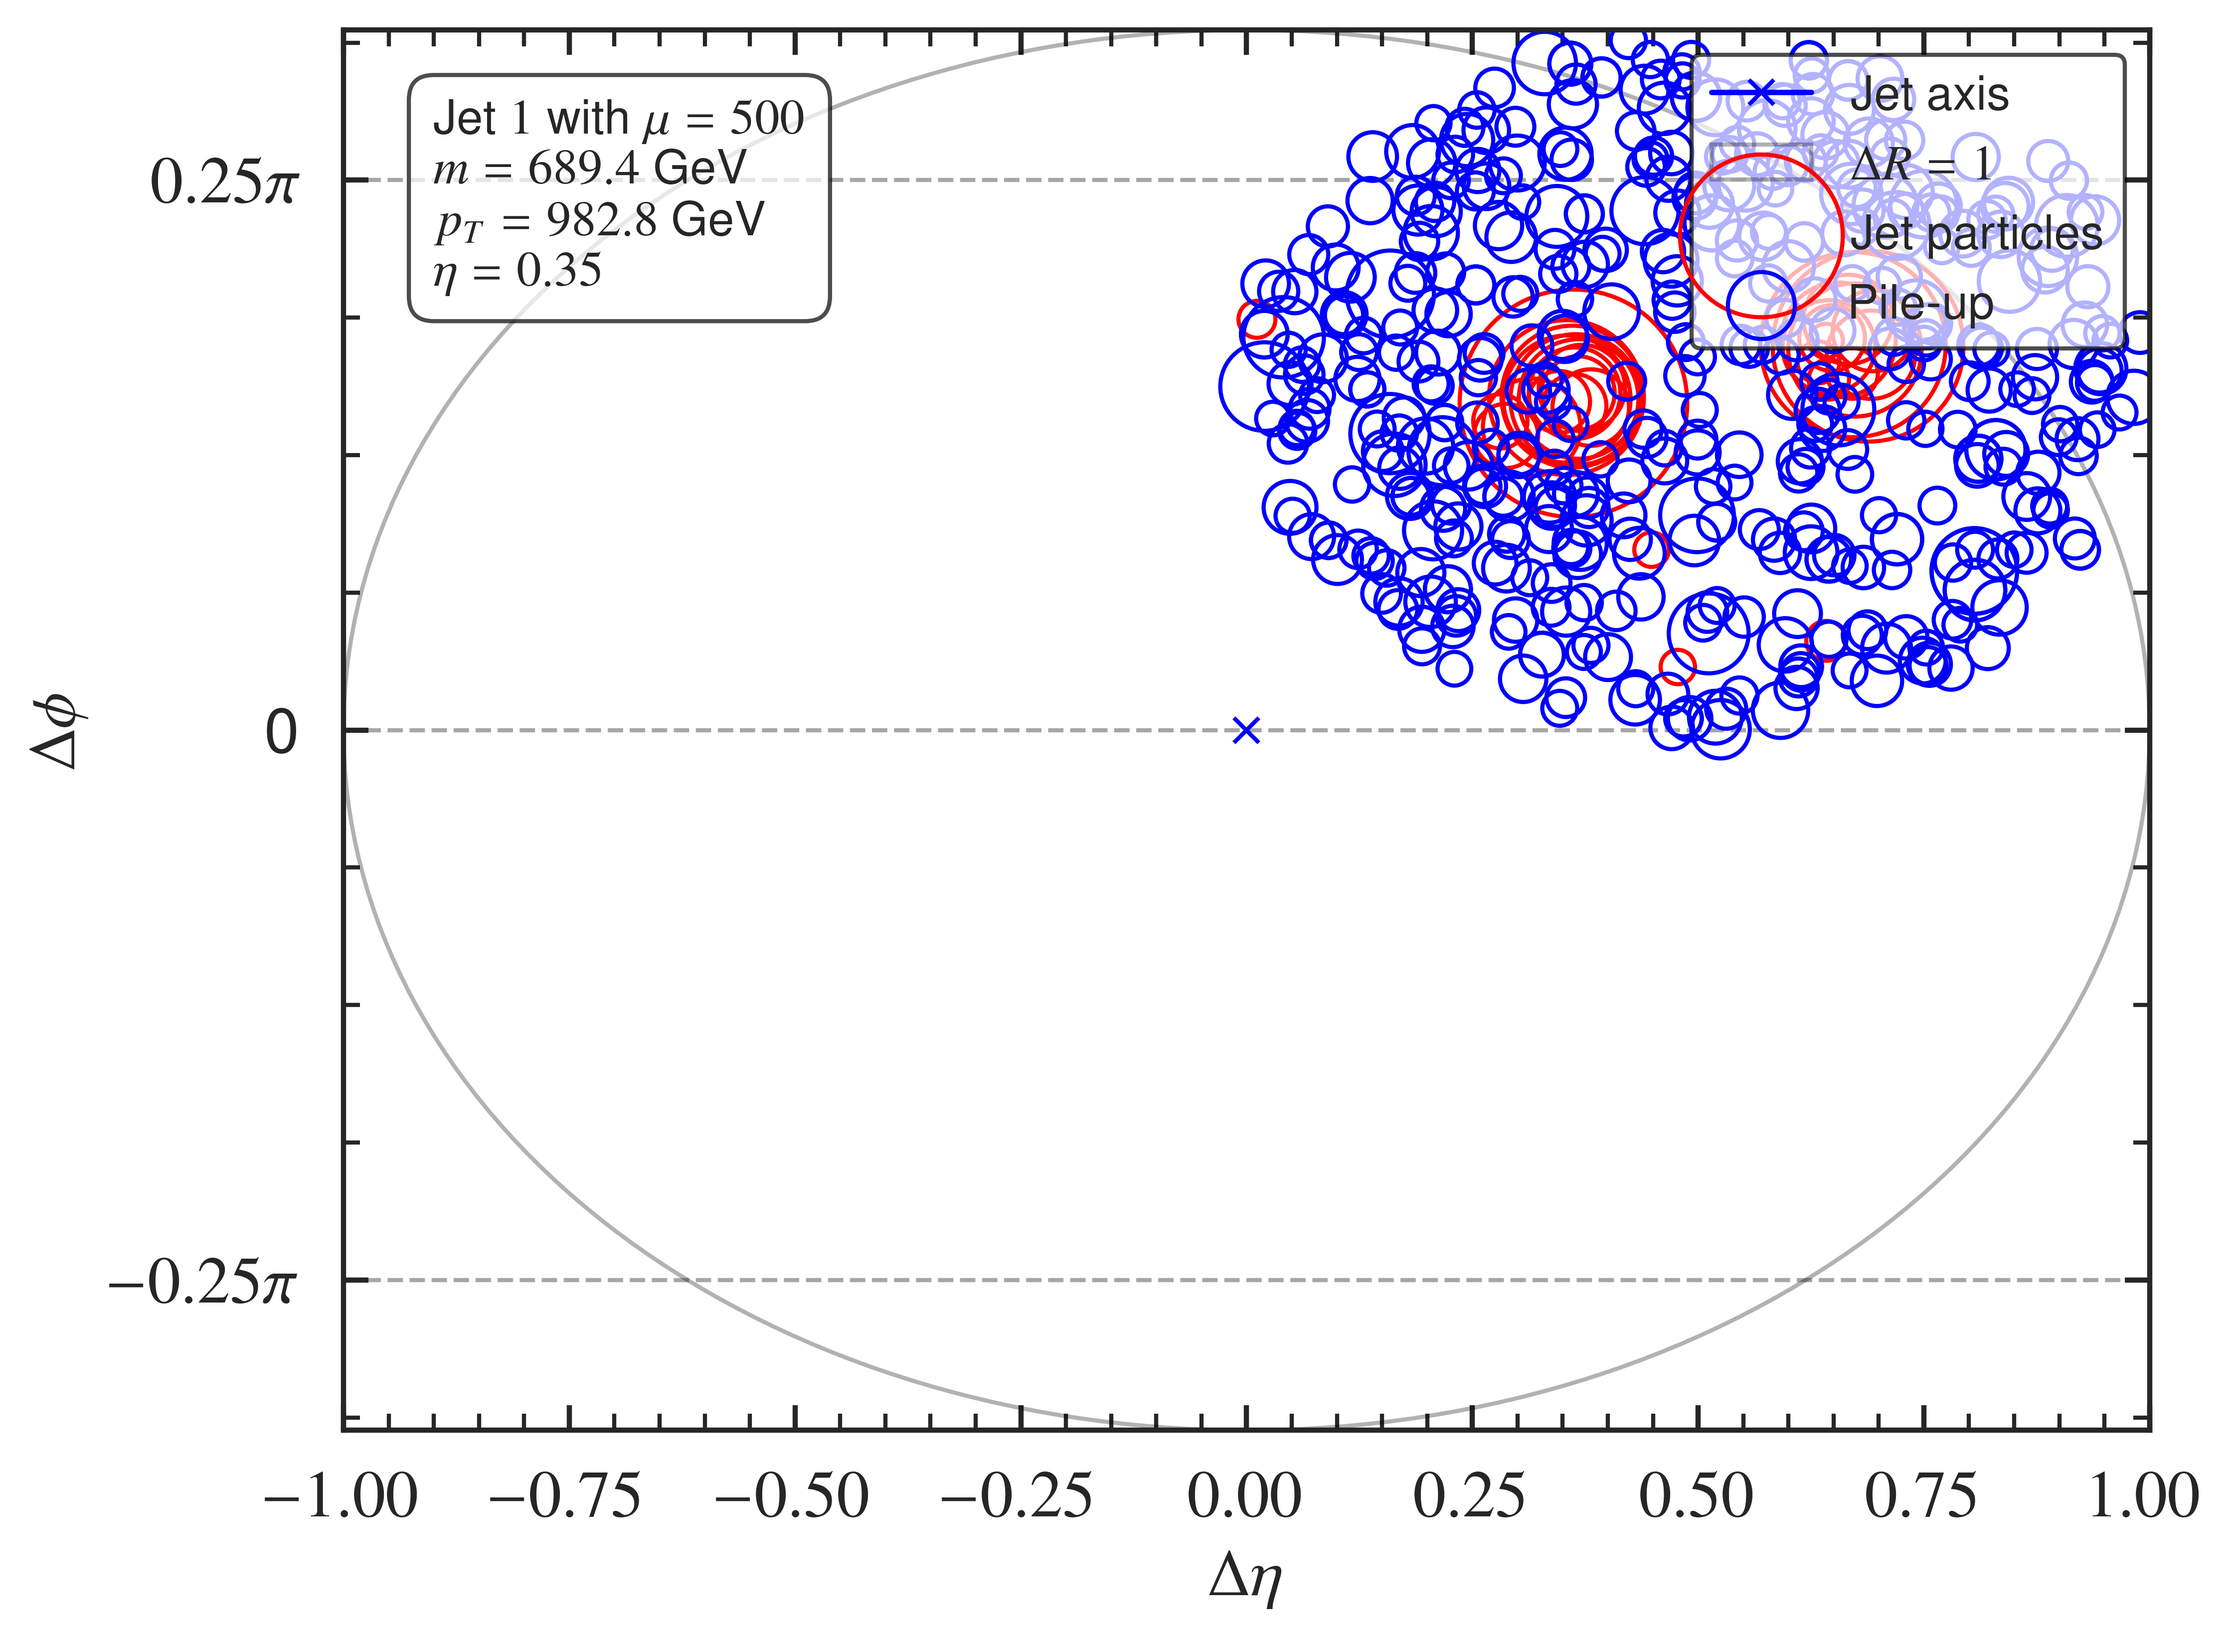
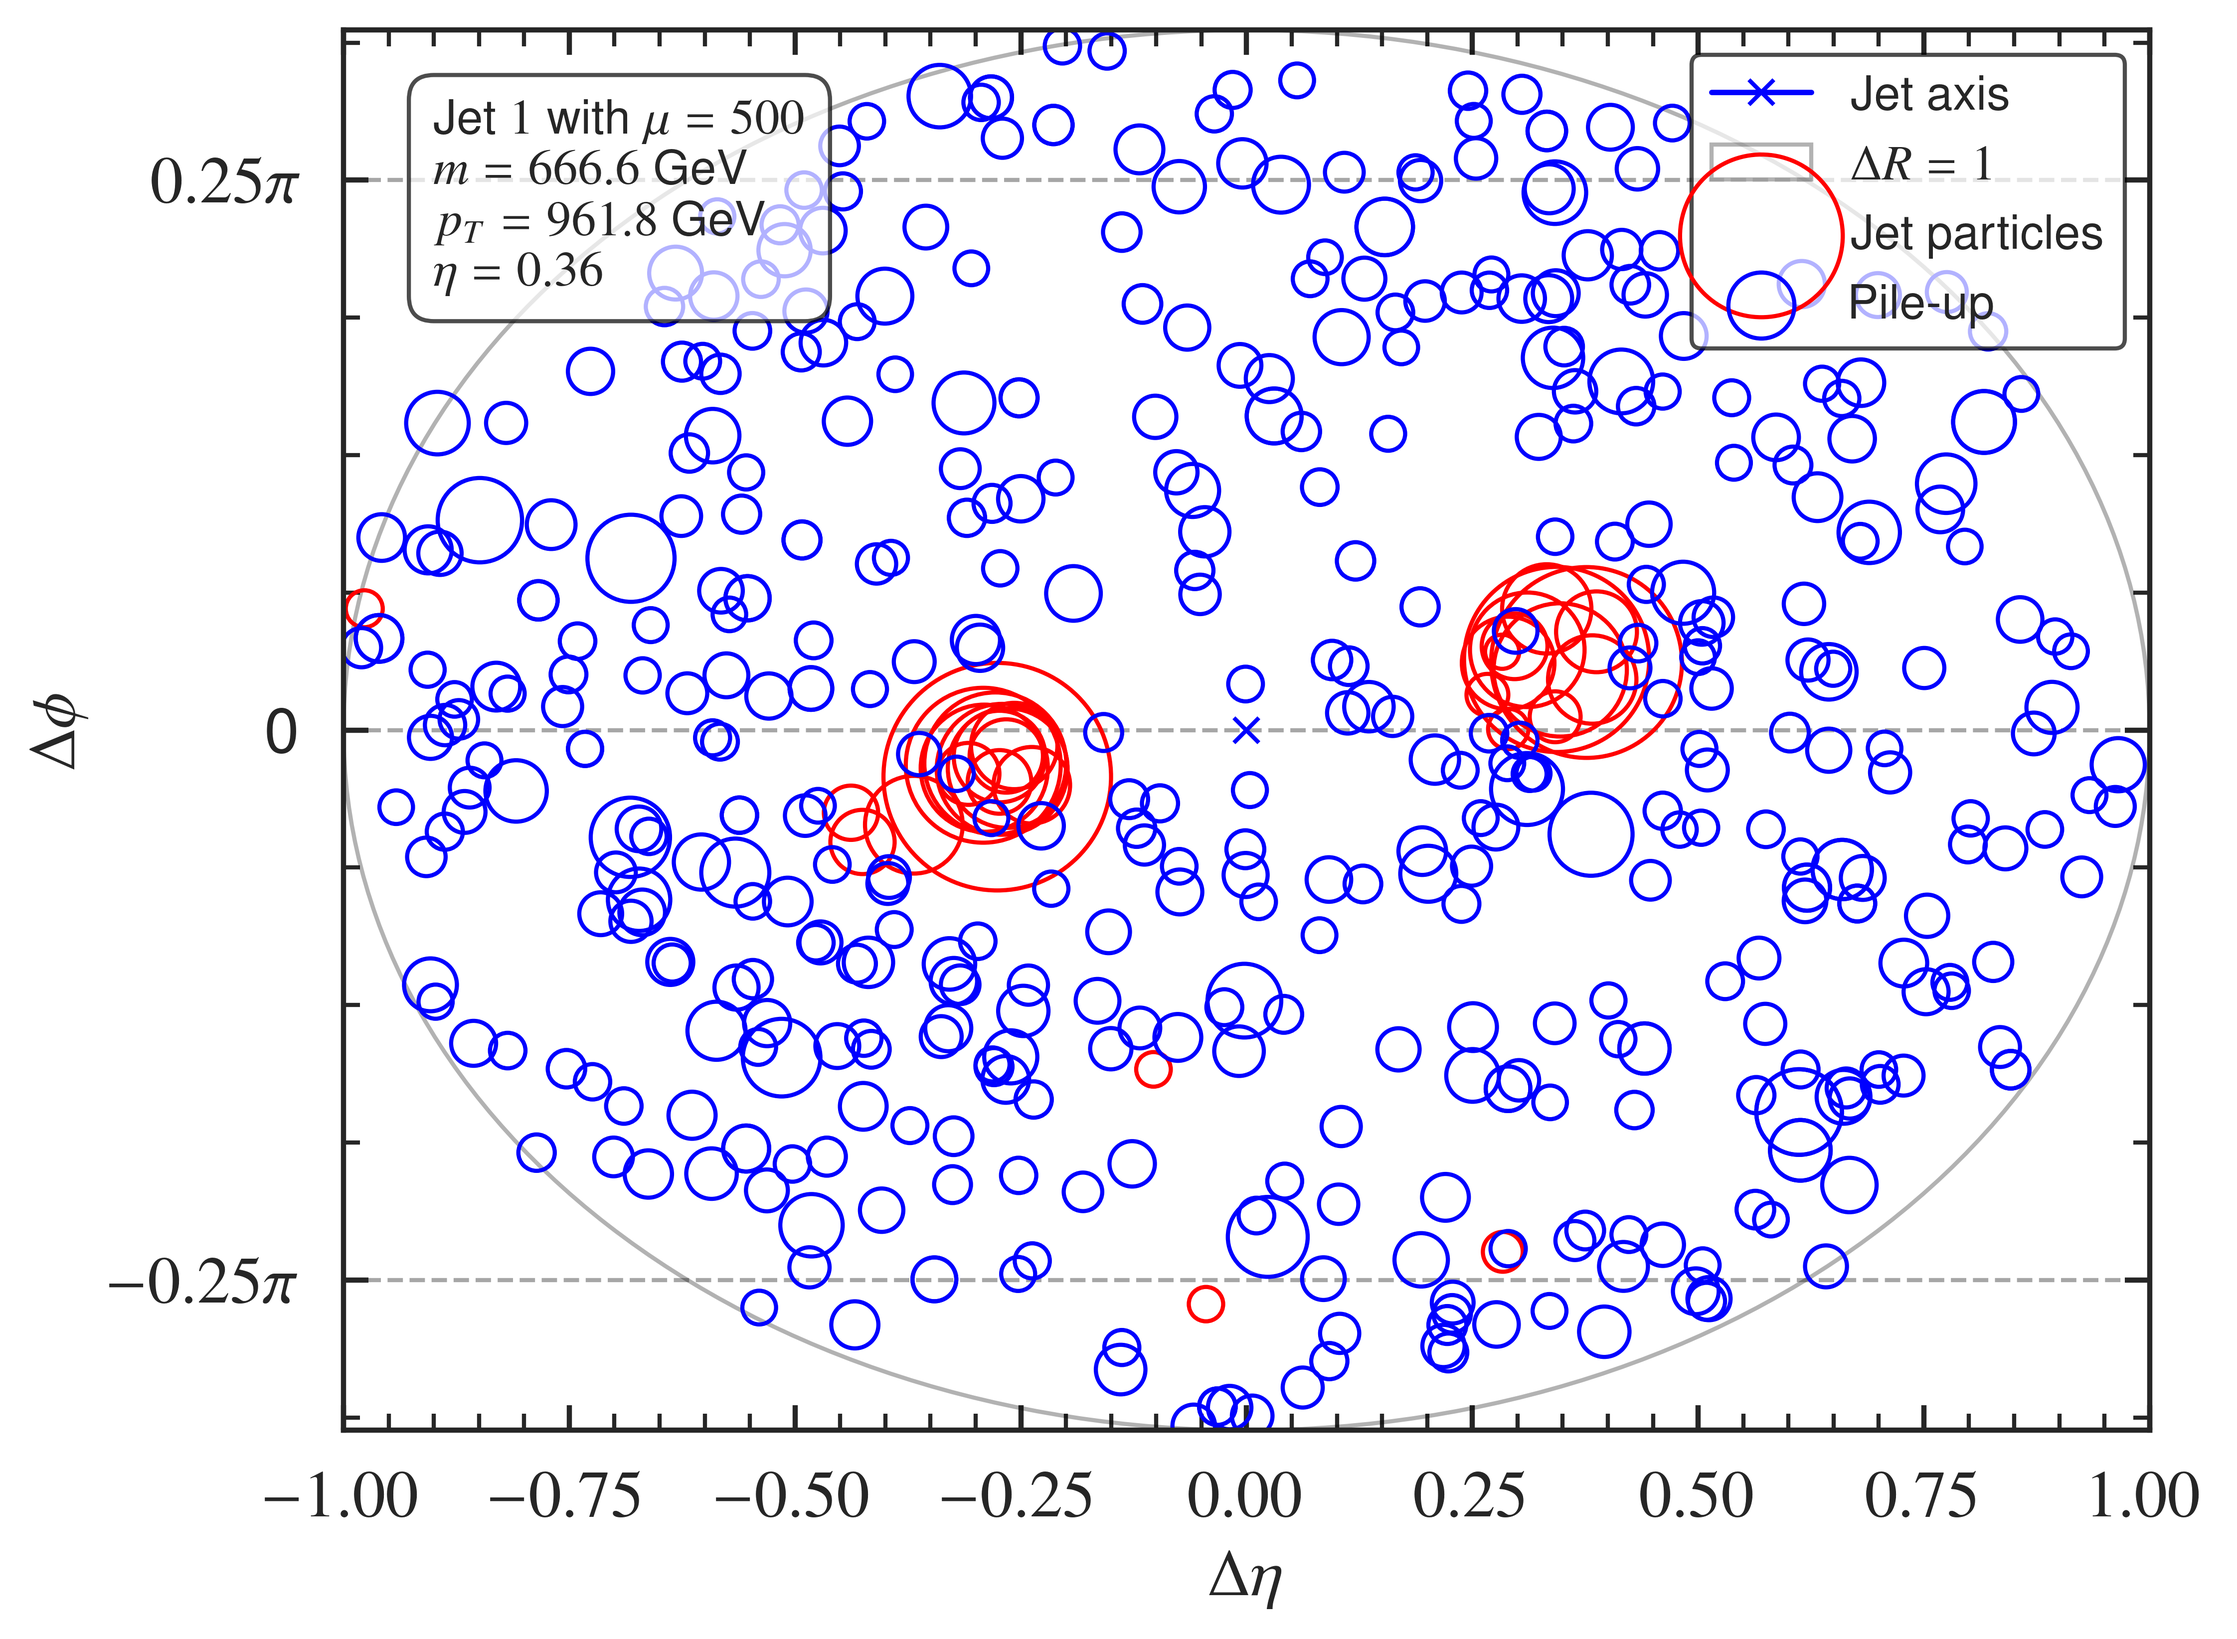
Extract vectorisation from bmap in Noisy_Generator. Fix inadvertent modifying class attrs in unit_square_the_unit_circle().

diff --git a/DDPMLHC/dataset_ops/data_loading.py b/DDPMLHC/dataset_ops/data_loading.py
@@ -69,6 +69,11 @@ class NoisyGenerator:
         
         self._max_TT_no = self.tt.max_ID
         self._max_PU_no = self.pu.max_ID
+        self.grid_side_bins = BMAP_SQUARE_SIDE_LENGTH
+
+        ### TODO: need to set
+        self.scaling_mean = 0
+        self.scaling_sd = 1
 
         # Define column index mapping for getters
         self.column_indices_all = {  # For array of quantities
@@ -317,35 +322,42 @@ class NoisyGenerator:
         plt.savefig(f"{save_path}/{filename}_vis.png", bbox_inches='tight')
         plt.close()
 
-    def bmap_current_event(self, save_path=None, grid_side_bins=64, log_scale=True, return_grid=False):
+    def bmap_current_event(self, save_path=None):
         if self.current_event.size == 0:
             raise RuntimeError("No event loaded to plot")
         if save_path is None:
             save_path = f"{CWD}/data/plots/bmaps"
         
-        x, y = unit_square_the_unit_circle(self.etas, self.phis)  # Map to unit square
-        x_discrete, y_discrete = discretise_points(x, y, N=grid_side_bins)  # Discretise coords
-        
-        # Scale energies for visualization (to 3SD)
-        mean = np.mean(self.masses)
-        std = np.std(self.masses)
-        scaled_energies = 255 * (self.masses - mean) / (3 * std) + 128
-        
-        # Create grid using float32 first to avoid overflow
-        grid = np.zeros((grid_side_bins, grid_side_bins), dtype=np.float32)
-        for e, xi, yi in zip(scaled_energies, x_discrete, y_discrete):
-            grid[yi, xi] += float(e)
+        bins = self.grid_side_bins
 
-        # if log_scale:  # Log before or after gridding? onlyuse in bmap visualisation
-        #     grid = np.log1p(grid)  # log1p = log(1 + x) to handle zeros
-        
+        grid = self.vectorise(for_bmap=True).reshape((bins, bins))  # Get grid, with scaling for bmap visualisation
         grid = np.clip(grid, 0, 255).astype(np.uint8)  # Remove OOB vals
         
         im = Image.fromarray(grid)
         filename = f"event_{self._next_jetID-1}_mu{self.mu}"
         im.save(f"{save_path}/{filename}.png")
 
+    # Ops
 
+    def vectorise(self, for_bmap=False):
+        bins = self.grid_side_bins
+
+        x, y = unit_square_the_unit_circle(self.etas, self.phis)  # Map to unit square
+        x_discrete, y_discrete = discretise_points(x, y, N=bins)  # Discretise coords
+
+        # TODO: Scale energies - for now, apply BEFORE gridding - check!
+        if not for_bmap:
+            scaled_energies = (self.masses - self.scaling_mean) / (self.scaling_sd)
+        elif for_bmap:  # This scaling is only for visualization (to 3SD), not suitable for NN input
+            mean = np.mean(self.masses)
+            std = np.std(self.masses)
+            scaled_energies = 255 * (self.masses - mean) / (3 * std) + 128
+
+        grid = np.zeros((bins, bins), dtype=np.float32)
+        for e, xi, yi in zip(scaled_energies, x_discrete, y_discrete):
+            grid[yi, xi] += float(e)
+        
+        return grid.reshape(bins * bins)
 
     # Getters for quantity arrays
     @property

diff --git a/DDPMLHC/main_rs.py b/DDPMLHC/main_rs.py
@@ -34,17 +34,15 @@ print("FINISHED loading data\n")
 
 #################################################################################
 
-generator = NoisyGenerator(tt, pile_up, mu=500)
-next(generator)  # Load first event
-next(generator)  # Load second event
-# generator.visualise_current_event()
-generator.bmap_current_event()
-generator.visualise_current_event()
+for mu in [0, 50, 500]:
+    generator = NoisyGenerator(tt, pile_up, mu=mu)
+    next(generator)  # Load jet 0
+    generator.bmap_current_event()
+    generator.visualise_current_event()
 
-# # Or with custom parameters
-# generator.bmap_current_event(
-#     save_path="custom/path",
-#     filename="custom_name",
-#     grid_size=128,  # Higher resolution
-#     log_scale=False  # Linear energy scale
-# )
+    next(generator)  # Load jet 1
+    generator.bmap_current_event()
+    generator.visualise_current_event()
+
+# print(generator.vectorise(for_bmap=True).reshape((BMAP_SQUARE_SIDE_LENGTH, BMAP_SQUARE_SIDE_LENGTH)), "\n")
+# print(generator.vectorise(for_bmap=False).reshape((BMAP_SQUARE_SIDE_LENGTH, BMAP_SQUARE_SIDE_LENGTH)))

diff --git a/DDPMLHC/dataset_ops/process_data.py b/DDPMLHC/dataset_ops/process_data.py
@@ -7,11 +7,9 @@ from DDPMLHC.config import *
 
 def unit_square_the_unit_circle(etas, phis):
     """Squeezes unit circle (eta^2 + phi^2 = 1) into unit square [0,1]x[0,1]."""
-    etas /= 2
-    phis /= 2
-    etas += 0.5
-    phis += 0.5
-    return etas, phis
+    new_etas = etas / 2 + 0.5  # Don't use /= or += ... writes to passed in vals
+    new_phis = phis / 2 + 0.5
+    return new_etas, new_phis
 
 def wrap_phi(phi_centre, phis, R=1):
     # If near top edge
